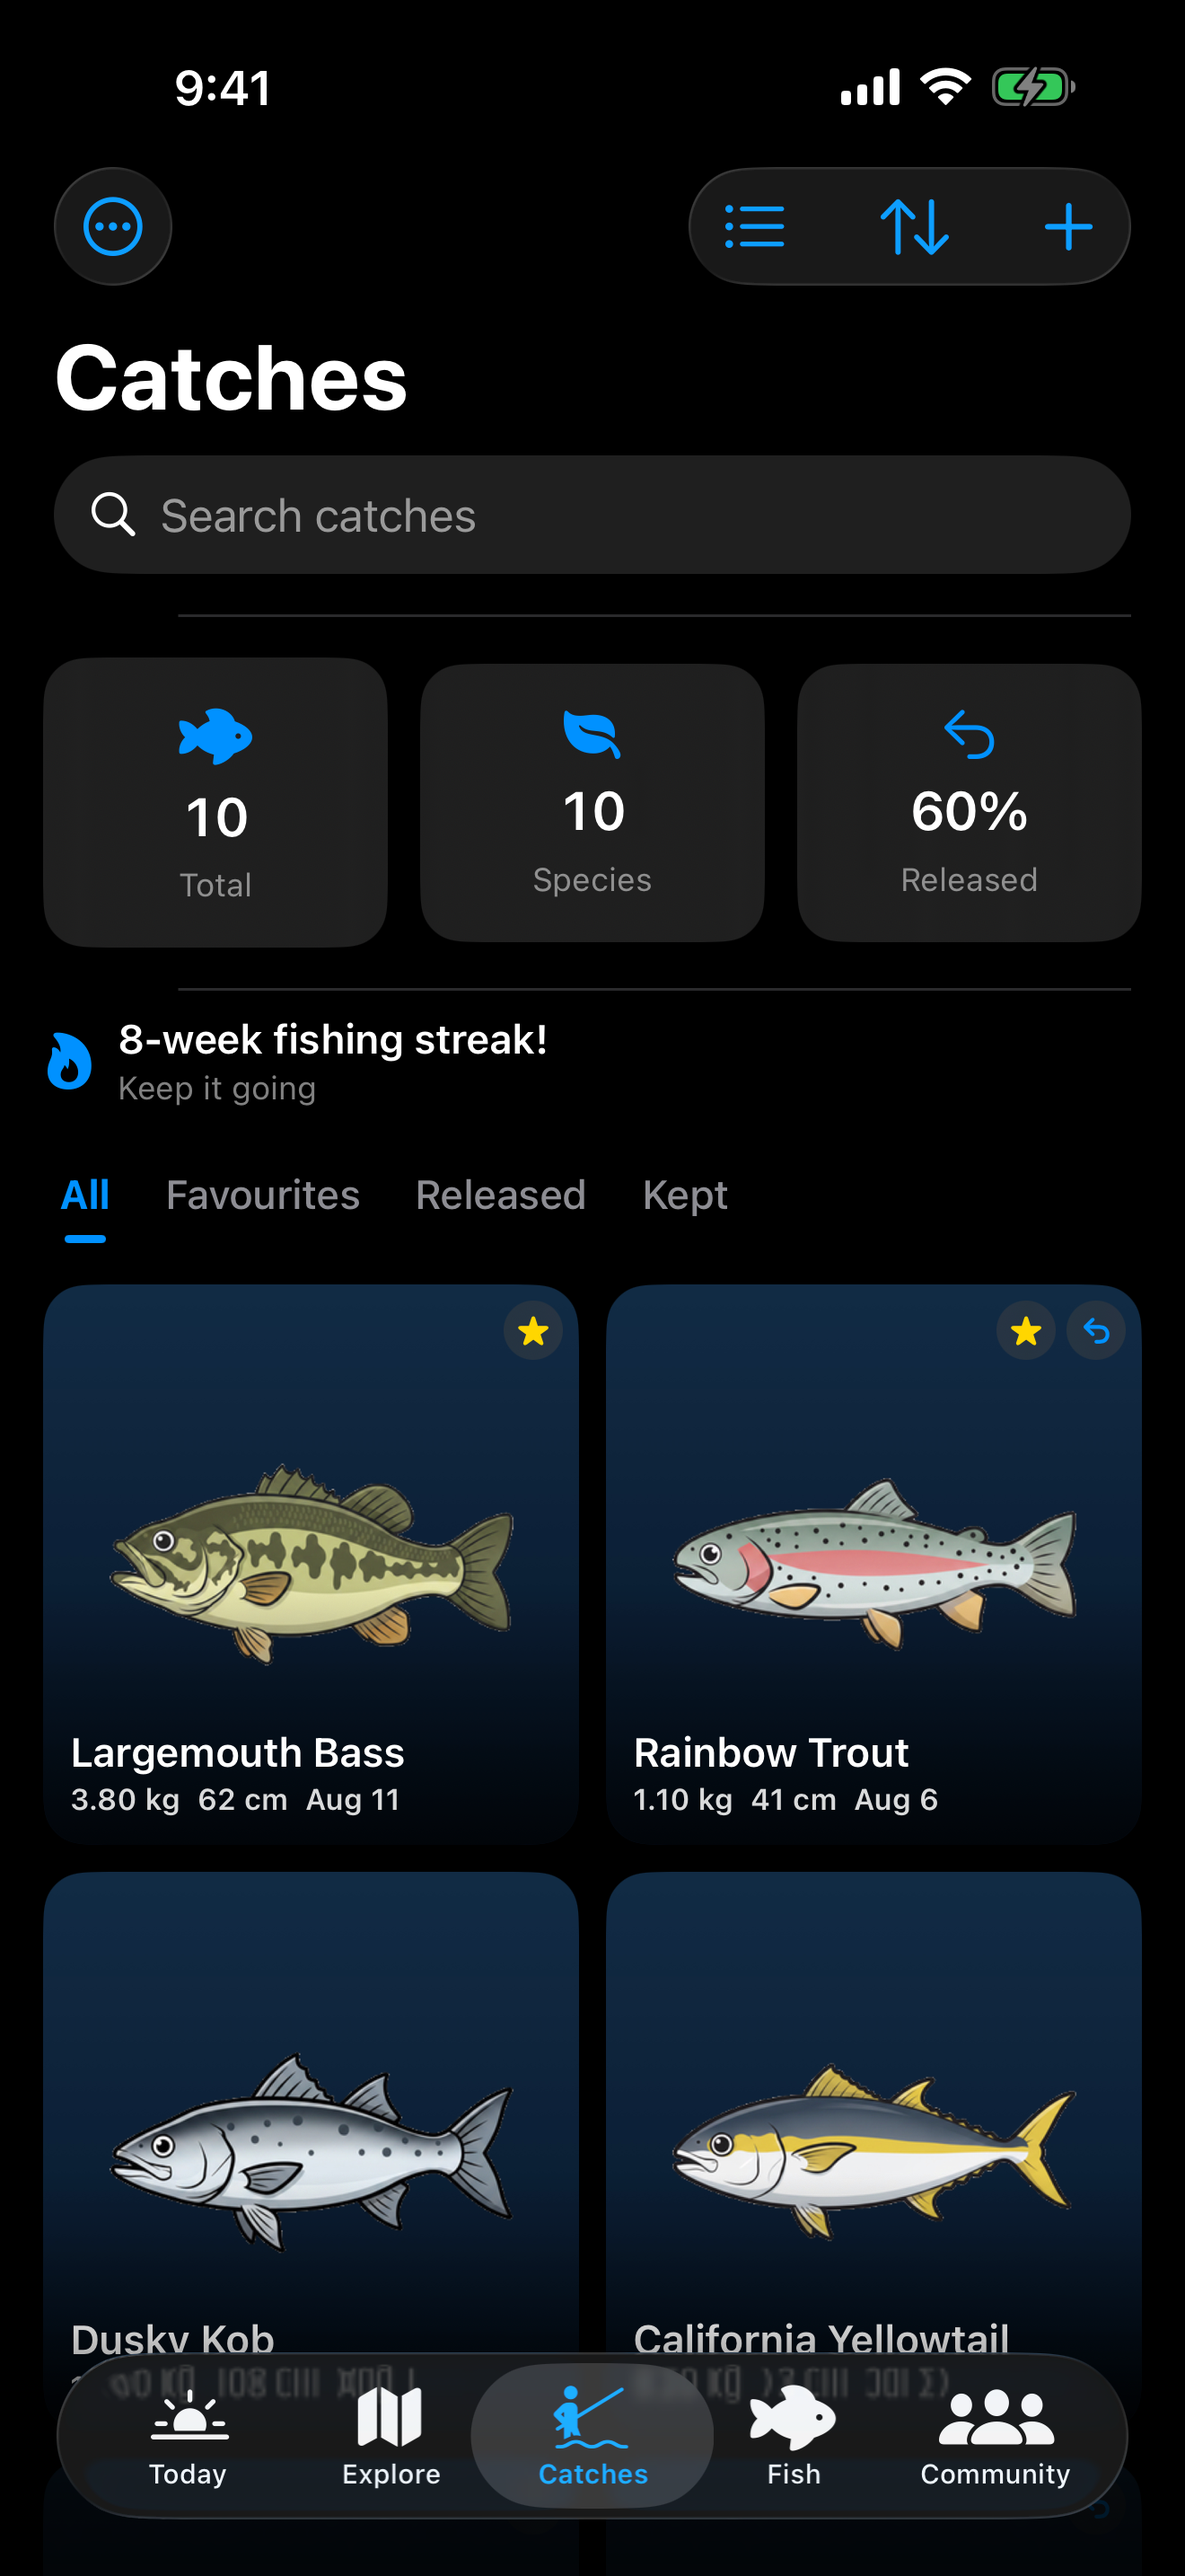
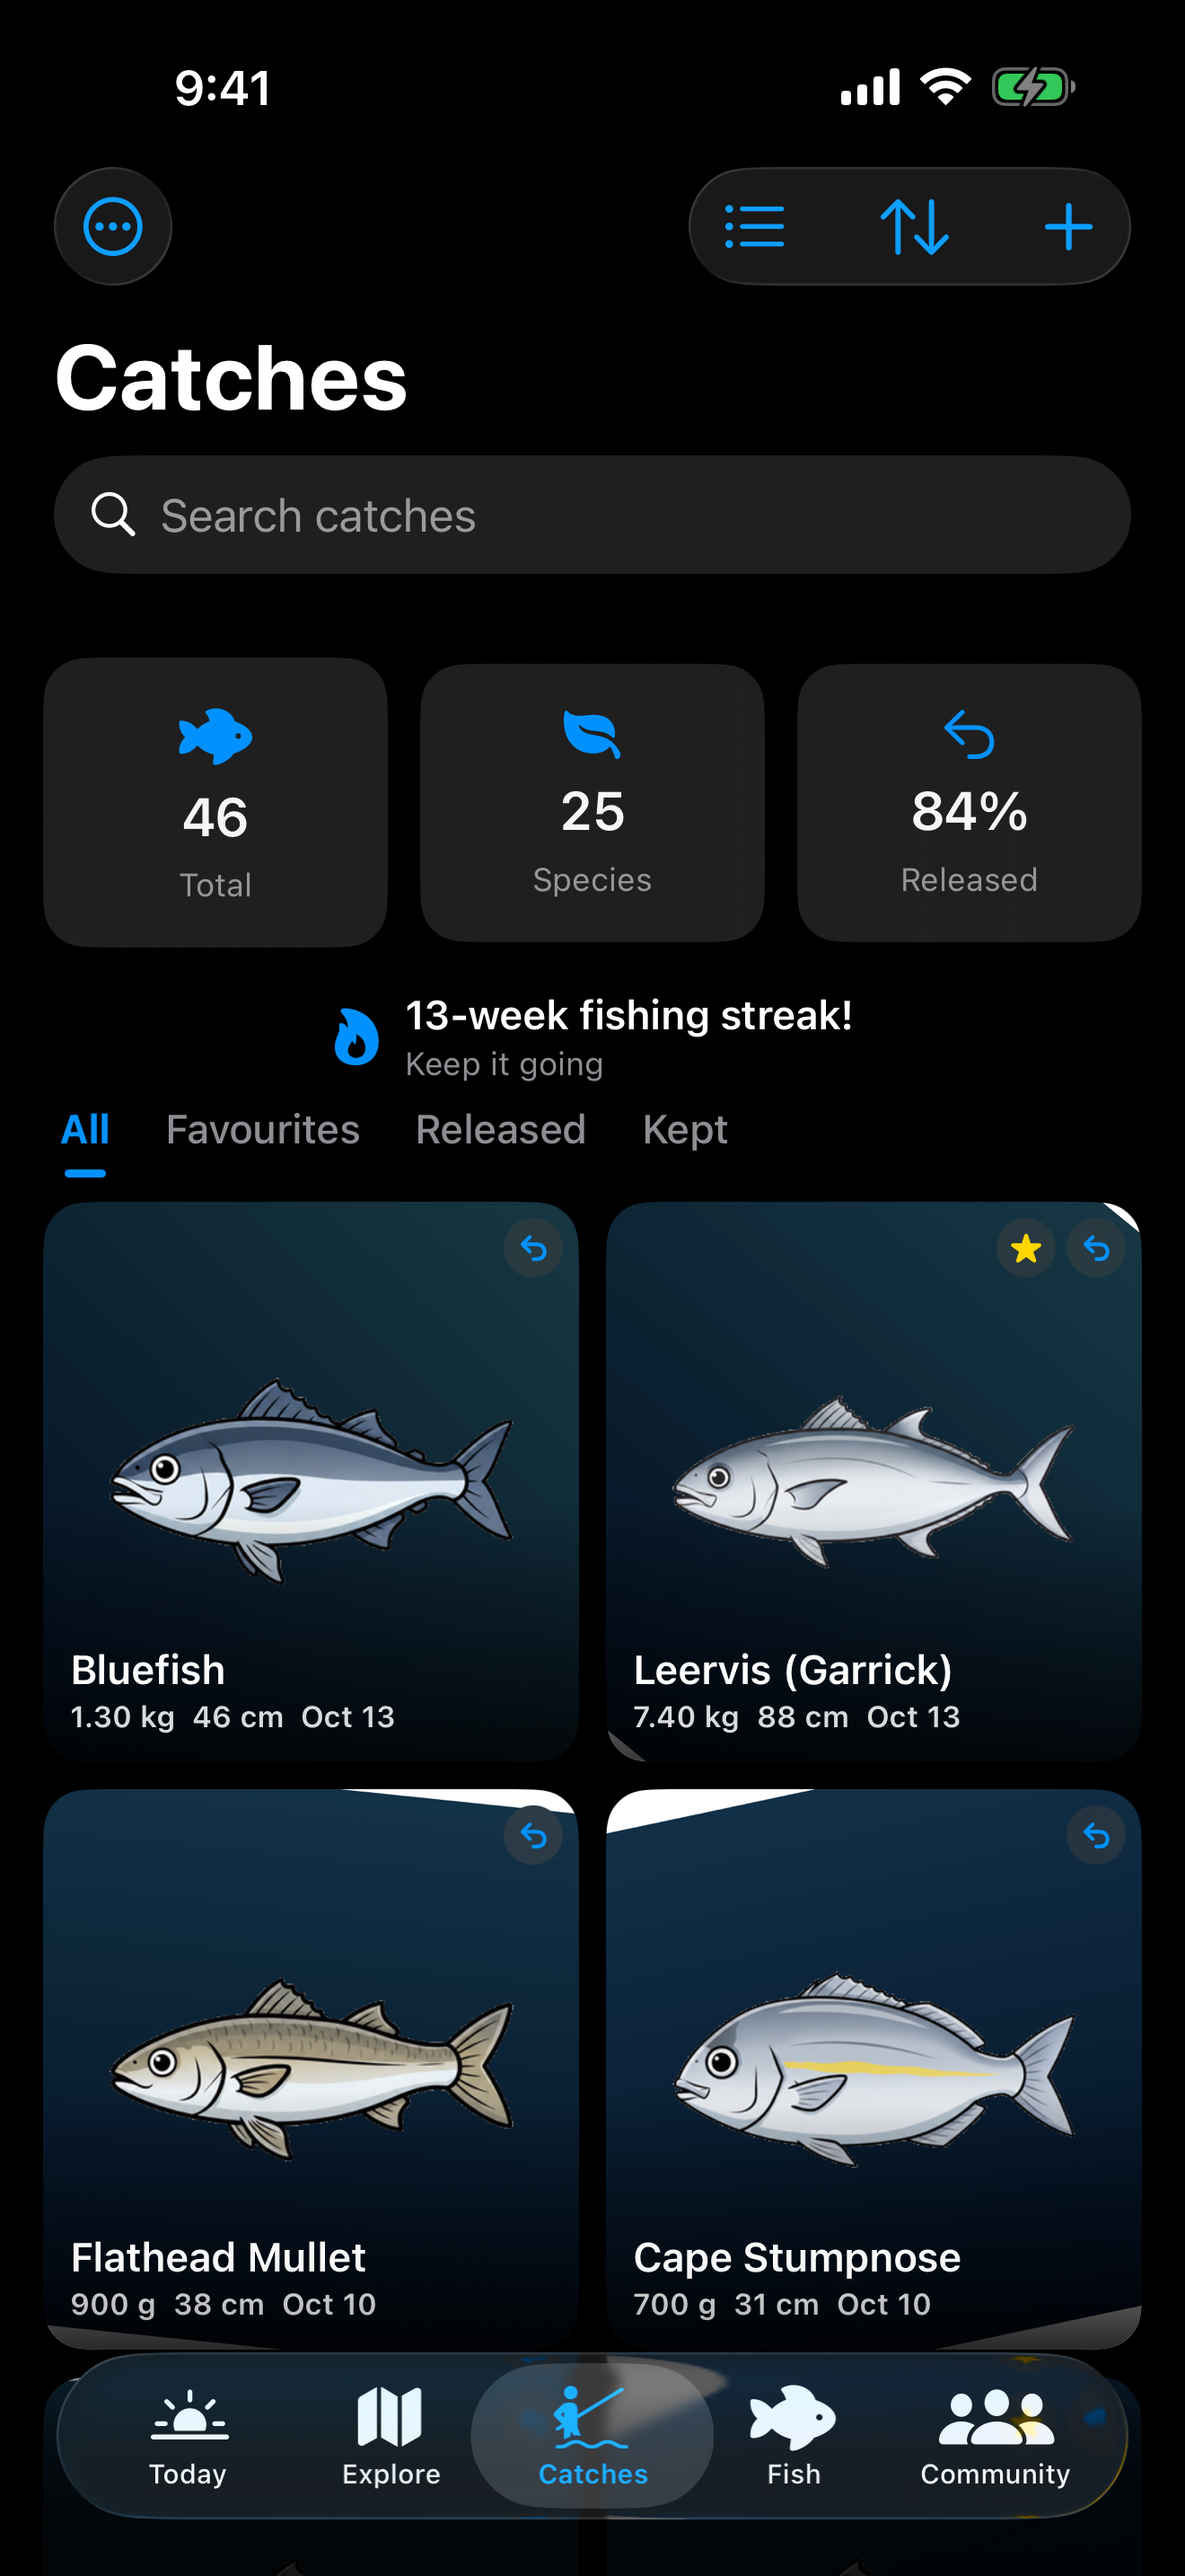
Screenshot cards: extend the gradient past its endpoints
Claude-Session: https://claude.ai/code/session_01CRYgJhPzh9cHqok2JqQZ4Y

diff --git a/ios/Currents/App/ScreenshotSupport.swift b/ios/Currents/App/ScreenshotSupport.swift
@@ -618,7 +618,8 @@ enum ScreenshotSupport {
             ) {
                 cg.drawLinearGradient(
                     gradient, start: CGPoint(x: size.width * seed, y: 0),
-                    end: CGPoint(x: size.width * (1 - seed), y: size.height), options: []
+                    end: CGPoint(x: size.width * (1 - seed), y: size.height),
+                    options: [.drawsBeforeStartLocation, .drawsAfterEndLocation]
                 )
             }
             let pad: CGFloat = 90
